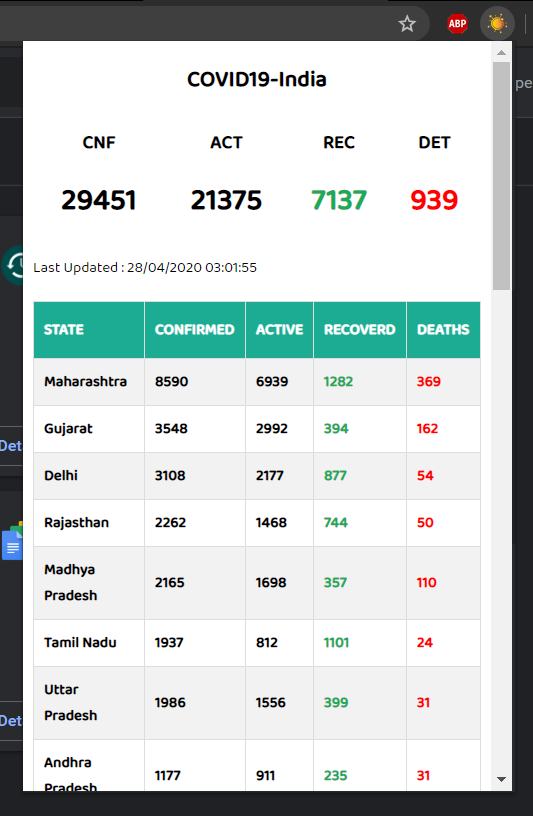
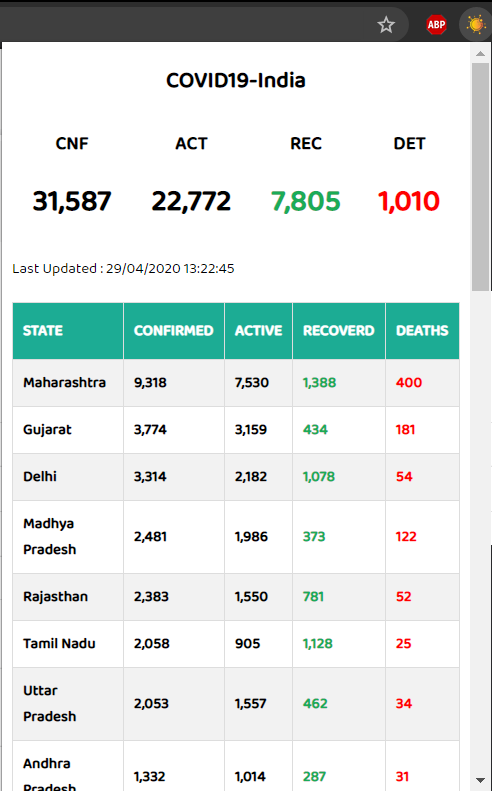
version 1.2

diff --git a/covid 19 india extension/content.js b/covid 19 india extension/content.js
@@ -7,19 +7,19 @@ var checktd = document.getElementsByTagName("td");
     })
     .then(function(res){
         console.log(res);
-
+ 
 
         var time = document.getElementById("time");
         time.innerHTML = res.statewise[0].lastupdatedtime;
 
-        document.getElementById("one").innerHTML = res.statewise[0].confirmed;
-        document.getElementById("two").innerHTML = res.statewise[0].active;
+        document.getElementById("one").innerHTML = res.statewise[0].confirmed.toString().replace(/(\d)(?=(\d{3})+(?!\d))/g, "$1,");
+        document.getElementById("two").innerHTML = res.statewise[0].active.toString().replace(/(\d)(?=(\d{3})+(?!\d))/g, "$1,");
         var rec = document.getElementById("three");
         rec.style.color = "#1BAB57"
-        rec.innerHTML = res.statewise[0].recovered;
+        rec.innerHTML = res.statewise[0].recovered.toString().replace(/(\d)(?=(\d{3})+(?!\d))/g, "$1,");
         var det = document.getElementById("four");
         det.style.color = "red";
-        det.innerHTML = res.statewise[0].deaths;
+        det.innerHTML = res.statewise[0].deaths.toString().replace(/(\d)(?=(\d{3})+(?!\d))/g, "$1,");
 
       
 
@@ -34,20 +34,20 @@ var checktd = document.getElementsByTagName("td");
             tr.appendChild(td);
 
             var td2 = document.createElement("td");
-            td2.textContent = res.statewise[i].confirmed;
+         td2.textContent = res.statewise[i].confirmed.toString().replace(/(\d)(?=(\d{3})+(?!\d))/g, "$1,");
             tr.appendChild(td2);
 
             var td3 = document.createElement("td");
-            td3.textContent = res.statewise[i].active;
+         td3.textContent = res.statewise[i].active.toString().replace(/(\d)(?=(\d{3})+(?!\d))/g, "$1,");
             tr.appendChild(td3);
 
             var td4 = document.createElement("td");
-            td4.textContent = res.statewise[i].recovered;
+         td4.textContent = res.statewise[i].recovered.toString().replace(/(\d)(?=(\d{3})+(?!\d))/g, "$1,");
             td4.style.color = "#1BAB57"
             tr.appendChild(td4);
 
             var td5 = document.createElement("td");
-            td5.textContent = res.statewise[i].deaths;
+         td5.textContent = res.statewise[i].deaths.toString().replace(/(\d)(?=(\d{3})+(?!\d))/g, "$1,");
             td5.style.color = "red";
             tr.appendChild(td5);
 
